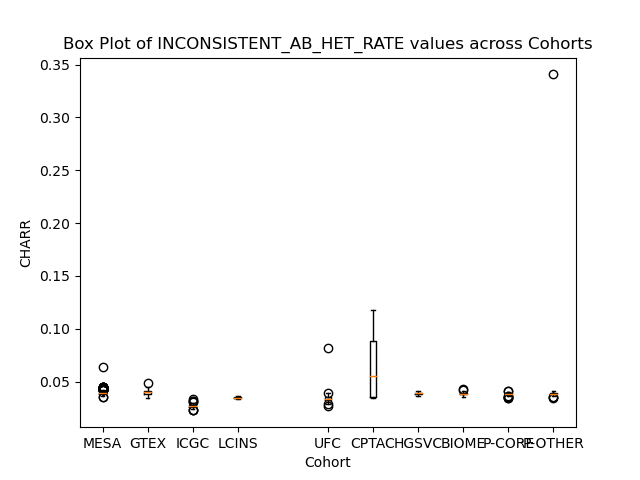
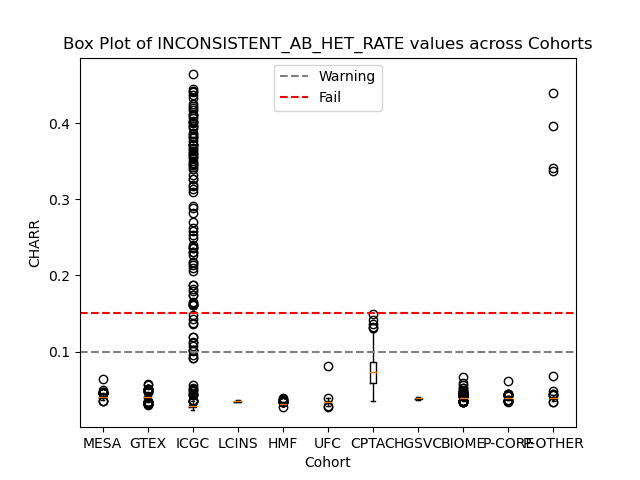
bcftools docker

diff --git a/scripts/g2c_helpers/g2c_charr.py b/scripts/g2c_helpers/g2c_charr.py
@@ -20,7 +20,7 @@ bar_colors = ['blue', 'red', 'pink', 'purple', 'darkgreen', 'lightgreen', 'yello
 charr_arr = []
 charr_reblocked_arr = []
 charr_dict = dict()
-variable_of_interest = 'CHARR'
+variable_of_interest = 'CHARR' #'INCONSISTENT_AB_HET_RATE' #
 
 def grab_charr_files():
     def list_charr_files(base_path, cohort):
@@ -61,10 +61,11 @@ def process_cohorts():
     charr_files = grab_charr_files()
     cohort_dict = dict()
     cohort_dict['mesa'] = [file for file in charr_files if 'mesa' in file]
+    cohort_dict['ceph'] = [file for file in charr_files if 'ceph' in file]
     cohort_dict['gtex'] = [file for file in charr_files if 'gtex' in file]
     cohort_dict['icgc'] = [file for file in charr_files if 'icgc' in file]
     cohort_dict['lcins'] = [file for file in charr_files if 'lcins' in file]
-    #cohort_dict['hmf'] = [file for file in charr_files if 'hmf' in file]
+    cohort_dict['hmf'] = [file for file in charr_files if 'hmf' in file]
     cohort_dict['ufc'] = [file for file in charr_files if 'ufc' in file]
     cohort_dict['cptac'] = [file for file in charr_files if 'cptac' in file]
     cohort_dict['hgsvc'] = [file for file in charr_files if 'hgsvc' in file]
@@ -86,16 +87,17 @@ def make_figure():
 
 
     box_plot(charr_dict['mesa'],1,"MESA")
-    box_plot(charr_dict['gtex'],2,"GTEX")
-    box_plot(charr_dict['icgc'],3,"ICGC")
-    box_plot(charr_dict['lcins'],4,"LCINS")
-    #box_plot(charr_dict['hmf'],5,"HMF")
-    box_plot(charr_dict['ufc'],6,"UFC")
-    box_plot(charr_dict['cptac'],7,"CPTAC")
-    box_plot(charr_dict['hgsvc'],8,"HGSVC")
-    box_plot(charr_dict['biome'],9,"BIOME")
-    box_plot(charr_dict['proactive-core'],10,"P-CORE")
-    box_plot(charr_dict['proactive-other'],11,"P-OTHER")
+    box_plot(charr_dict['ceph'],2,"CEPH")
+    box_plot(charr_dict['gtex'],3,"GTEX")
+    box_plot(charr_dict['icgc'],4,"ICGC")
+    box_plot(charr_dict['lcins'],5,"LCINS")
+    box_plot(charr_dict['hmf'],6,"HMF")
+    box_plot(charr_dict['ufc'],7,"UFC")
+    box_plot(charr_dict['cptac'],8,"CPTAC")
+    box_plot(charr_dict['hgsvc'],9,"HGSVC")
+    box_plot(charr_dict['biome'],10,"BIOME")
+    box_plot(charr_dict['proactive-core'],11,"P-CORE")
+    box_plot(charr_dict['proactive-other'],12,"P-OTHER")
 
     # Show the plot
     # Add labels and title
@@ -107,6 +109,10 @@ def make_figure():
     if variable_of_interest == "CHARR":
         plt.axhline(y=0.02, linestyle='--', color='gray', label='Subtle Contamination')
         plt.axhline(y=0.03, linestyle='--', color='red', label='Suggestive of Contamination')
+        plt.legend()
+    if variable_of_interest == "INCONSISTENT_AB_HET_RATE":
+        plt.axhline(y=0.1, linestyle='--', color='gray', label='Warning')
+        plt.axhline(y=0.15, linestyle='--', color='red', label='Fail')
         plt.legend()
     # Create a wider figure
     #plt.figure(figsize=(10, 6))  # Adjust width as needed
@@ -150,9 +156,9 @@ def compare_reblocked_raw():
 
 
 if __name__ == '__main__':
-    compare_reblocked_raw()
-    #process_cohorts()
-    #make_figure()
+    #compare_reblocked_raw()
+    process_cohorts()
+    make_figure()
     # main()
 
 
